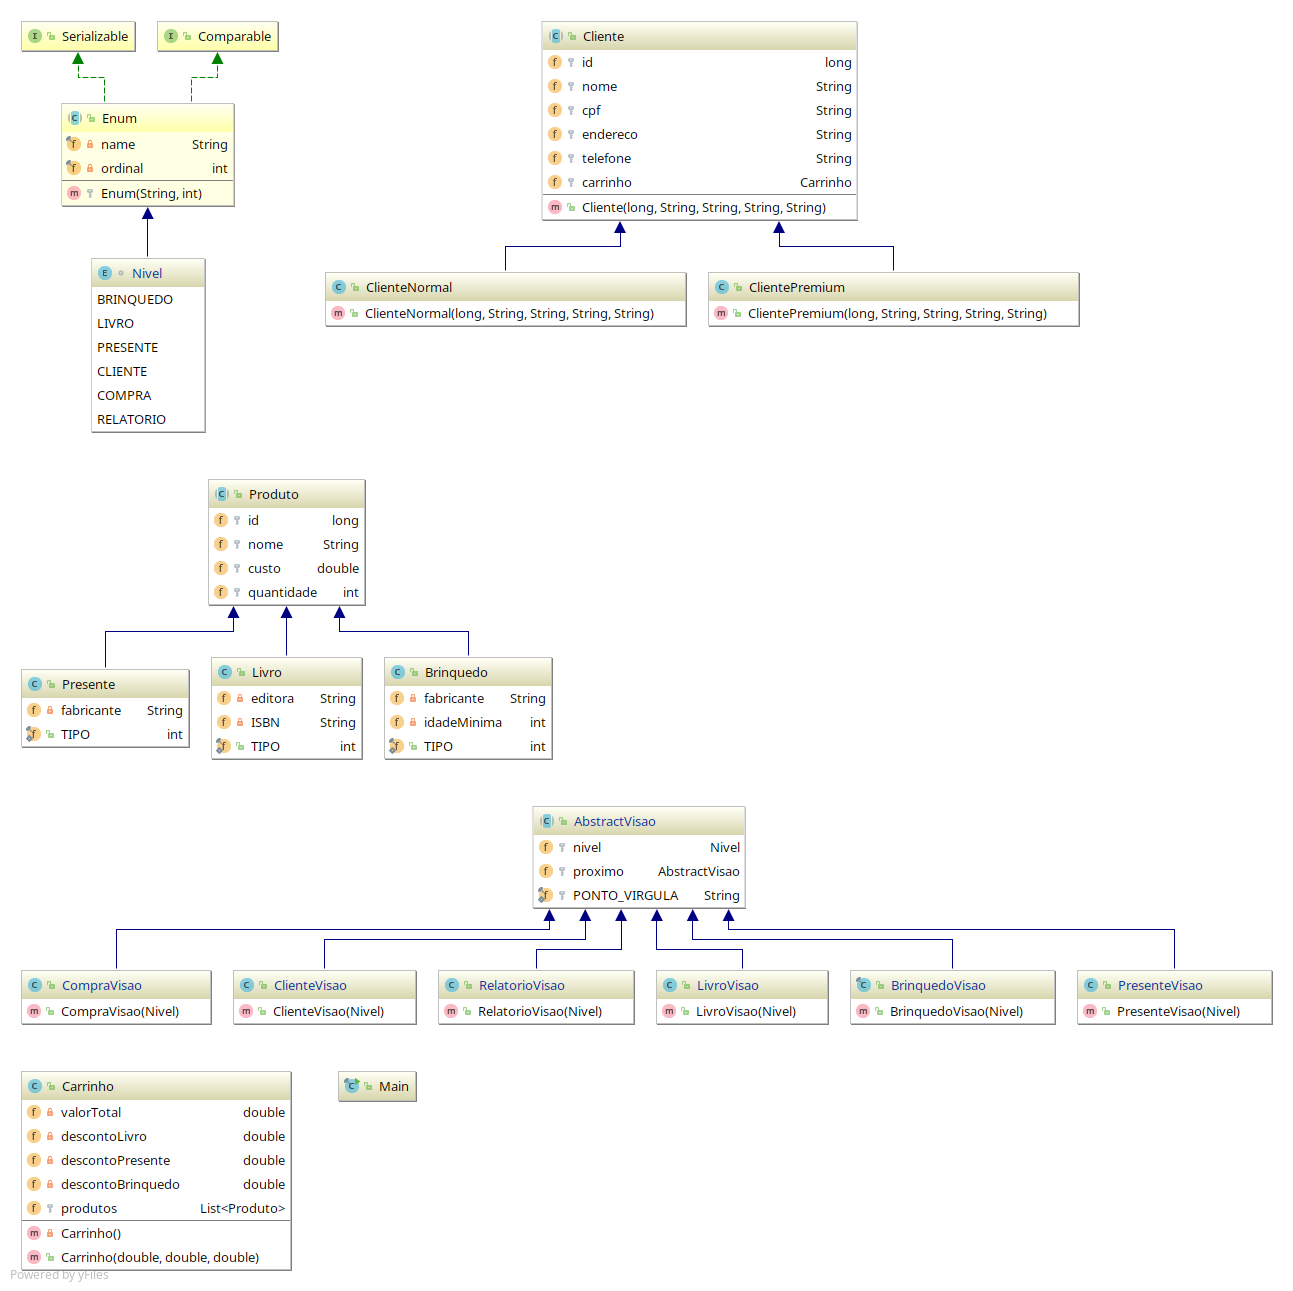
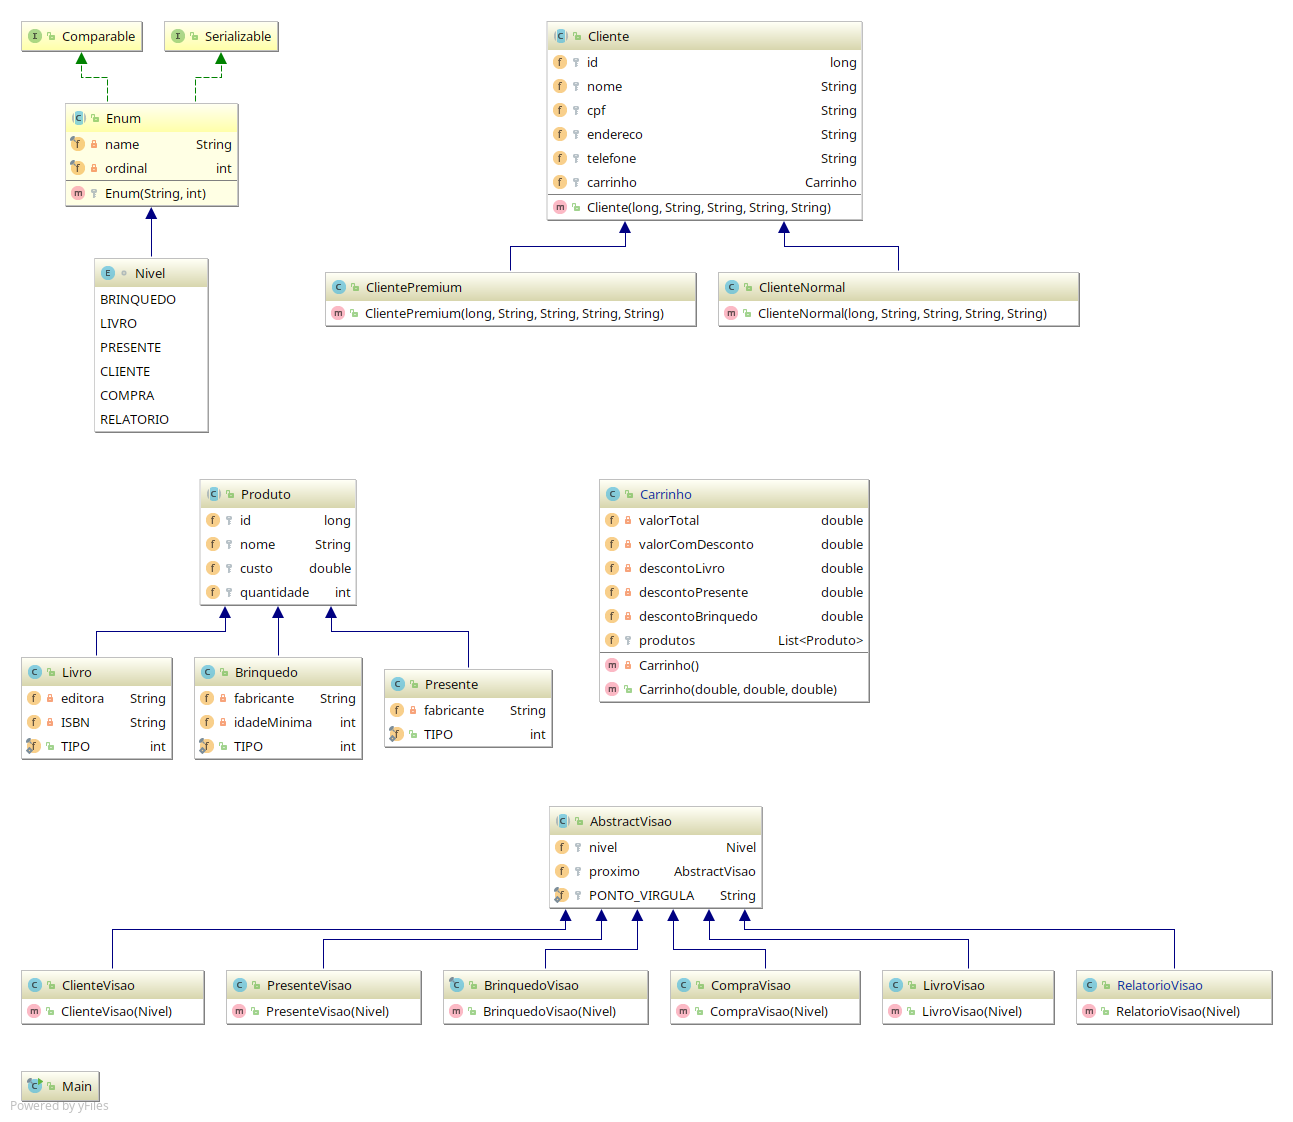
Calculado valor com desconto agora
Removidos todos os TODOs

Changed region(s): [[0.0, 0.3743, 0.9899, 0.9982], [0.2475, 0.0, 0.8353, 0.3119], [0.0, 0.0, 0.2166, 0.4055]]

diff --git a/src/controle/Carrinho.java b/src/controle/Carrinho.java
@@ -12,6 +12,7 @@ import java.util.List;
 public class Carrinho {
 
     private double valorTotal;
+    private double valorComDesconto;
     private double descontoLivro;
     private double descontoPresente;
     private double descontoBrinquedo;
@@ -31,28 +32,38 @@ public class Carrinho {
 
     public void adicionarProduto(Produto p) {
         if (p instanceof Presente) {
-            valorTotal += (p.getQuantidade() * p.getCusto()) * (1.15 - (descontoPresente / 100));
+            this.valorTotal += (p.getQuantidade() * p.getCusto()) * (1.15 - (this.descontoPresente / 100));
+            this.valorComDesconto = (p.getQuantidade() * p.getCusto()) * (1.15 - (this.descontoPresente / 100));
         } else if (p instanceof Brinquedo) {
-            valorTotal += (p.getQuantidade() * p.getCusto()) * (1 - (descontoBrinquedo / 100));
+            this.valorTotal += (p.getQuantidade() * p.getCusto()) * (1 - (this.descontoBrinquedo / 100));
+            this.valorComDesconto = (p.getQuantidade() * p.getCusto()) * (1 - (this.descontoBrinquedo / 100));
         } else if (p instanceof Livro) {
-            valorTotal += (p.getQuantidade() * p.getCusto()) * (1.05 - (descontoLivro / 100));
+            this.valorTotal += (p.getQuantidade() * p.getCusto()) * (1.05 - (this.descontoLivro / 100));
+            this.valorComDesconto = (p.getQuantidade() * p.getCusto()) * (1.05 - (this.descontoLivro / 100));
         }
-        produtos.add(p);
+        this.produtos.add(p);
     }
 
     public void removerProduto(Produto p) {
         if (p instanceof Presente) {
-            valorTotal -= (p.getQuantidade() * p.getCusto()) * (1.15 - (descontoPresente / 100));
+            this.valorTotal -= (p.getQuantidade() * p.getCusto()) * (1.15 - (this.descontoPresente / 100));
+            this.valorComDesconto = (p.getQuantidade() * p.getCusto()) * (1.15 - (this.descontoPresente / 100));
         } else if (p instanceof Brinquedo) {
-            valorTotal -= (p.getQuantidade() * p.getCusto()) * (1 - (descontoBrinquedo / 100));
+            this.valorTotal -= (p.getQuantidade() * p.getCusto()) * (1 - (this.descontoBrinquedo / 100));
+            this.valorComDesconto = (p.getQuantidade() * p.getCusto()) * (1 - (this.descontoBrinquedo / 100));
         } else if (p instanceof Livro) {
-            valorTotal -= (p.getQuantidade() * p.getCusto()) * (1.05 - (descontoLivro / 100));
+            this.valorTotal -= (p.getQuantidade() * p.getCusto()) * (1.05 - (this.descontoLivro / 100));
+            this.valorComDesconto = (p.getQuantidade() * p.getCusto()) * (1.05 - (this.descontoLivro / 100));
         }
-        produtos.remove(p);
+        this.produtos.remove(p);
     }
 
     public double getValorTotal() {
         return valorTotal;
+    }
+
+    public double getValorComDesconto() {
+        return valorComDesconto;
     }
 
     public double getDescontoLivro() {

diff --git a/src/visao/RelatorioVisao.java b/src/visao/RelatorioVisao.java
@@ -38,9 +38,7 @@ public class RelatorioVisao extends AbstractVisao {
             relatorio += String.format("%2$d" + "%1$s" + "%3$.2f\n",
                     separador, cliente.getId(), carrinho.getValorTotal());
             for (Produto produto : carrinho.getProdutos()) {
-                //TODO calcular esse valorComDesconto
-                double valorComDesconto = 0.0d;
-                //TODO obter corretamente o idItem
+                double valorComDesconto = carrinho.getValorComDesconto();
                 long idItem = produto.getId();
                 relatorio += String.format("%2$d" + "%1$s" + "%3$d" + "%1$s" + "%4$d" +
                                 "%1$s" + "%5$d" + "%1$s" + "%6$.2f" + "%1$s" + "%7$.2f\n",
